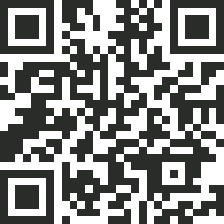
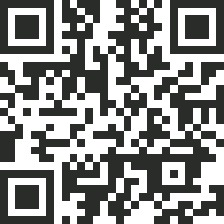
[UPDATE UI] Change background gradient color for payment method components and update Wompi payment link and image QR

diff --git a/src/components/paymentMethods/WompiPayment.jsx b/src/components/paymentMethods/WompiPayment.jsx
@@ -6,7 +6,7 @@ import { QRCodeModal } from "./QRCodeModal";
 export function WompiPayment() {
   return (
     <Card className="relative z-10  overflow-hidden border p-[1px]">
-      <div class="animate-rotate absolute inset-0 h-full w-full rounded-full bg-[conic-gradient(#0ea5e9_20deg,transparent_120deg)]"></div>
+      <div class="animate-rotate absolute inset-0 h-full w-full rounded-full bg-[conic-gradient(#67bfe7_20deg,transparent_120deg)]"></div>
       <div class="relative z-20 bg-white rounded-[0.3rem] h-full">
         <CardHeader>
           <CardTitle className="">
@@ -19,15 +19,15 @@ export function WompiPayment() {
             />
 
             <p className="text-base">
-              Para pagos <span className="underline">internacionales</span> y
-              nacionales.
+              Para pagos <span className="underline">internacionales.</span>
             </p>
+            <br />
           </CardTitle>
         </CardHeader>
         <CardContent className="space-y-4">
           <Button className="w-full" asChild>
             <a
-              href="https://checkout.wompi.co/l/P1zjV1"
+              href="https://checkout.wompi.co/l/gchayM"
               target="_blank"
               rel="noopener noreferrer"
             >

diff --git a/src/components/paymentMethods/BancolombiaPayment.jsx b/src/components/paymentMethods/BancolombiaPayment.jsx
@@ -8,7 +8,7 @@ export function BancolombiaPayment() {
 
   return (
     <Card className="relative z-10  overflow-hidden border p-[1px]">
-      <div class="animate-rotate absolute inset-0 h-full w-full rounded-full bg-[conic-gradient(#0ea5e9_20deg,transparent_120deg)]"></div>
+      <div class="animate-rotate absolute inset-0 h-full w-full rounded-full bg-[conic-gradient(#67bfe7_20deg,transparent_120deg)]"></div>
       <div class="relative z-20 bg-white rounded-[0.3rem] h-full">
         <CardHeader>
           <CardTitle className="">

diff --git a/src/components/paymentMethods/NequiPayment.jsx b/src/components/paymentMethods/NequiPayment.jsx
@@ -8,7 +8,7 @@ export function NequiPayment() {
 
   return (
     <Card className="relative z-10  overflow-hidden border p-[1px]">
-      <div class="animate-rotate absolute inset-0 h-full w-full rounded-full bg-[conic-gradient(#0ea5e9_20deg,transparent_120deg)]"></div>
+      <div class="animate-rotate absolute inset-0 h-full w-full rounded-full bg-[conic-gradient(#67bfe7_20deg,transparent_120deg)]"></div>
       <div class="relative z-20 bg-white rounded-[0.3rem] h-full">
         <CardHeader>
           <CardTitle className="">
